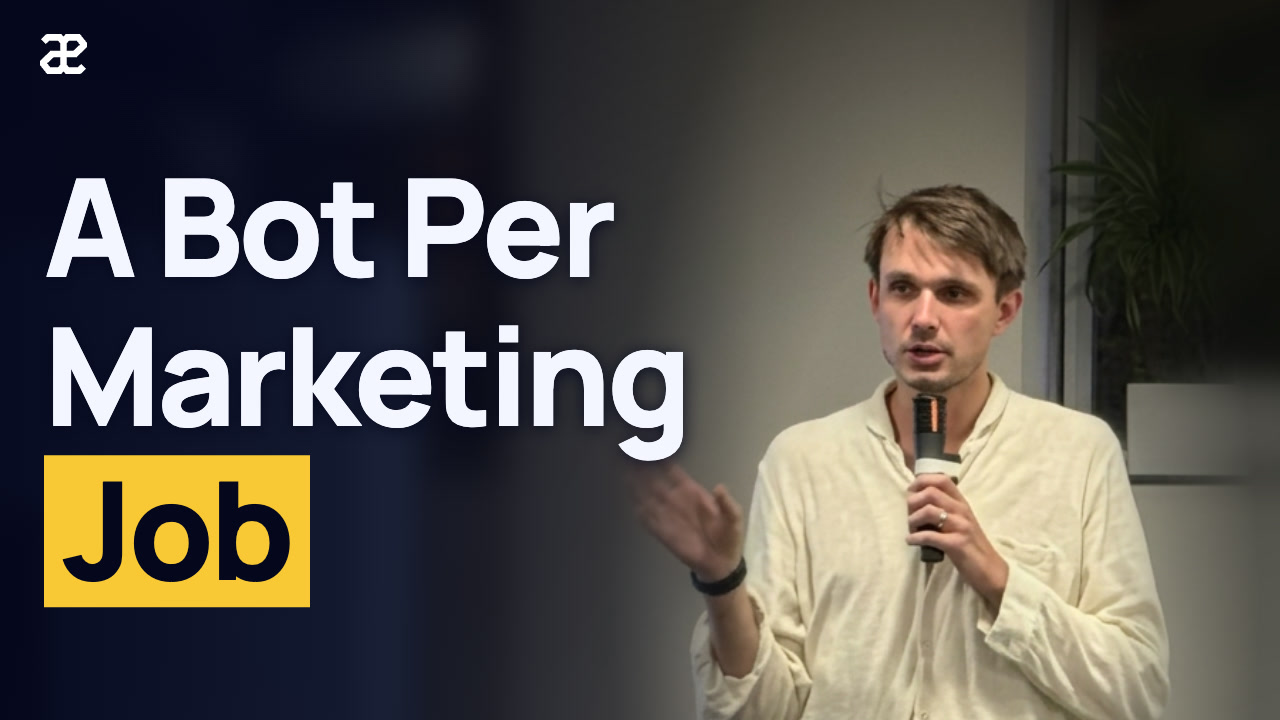
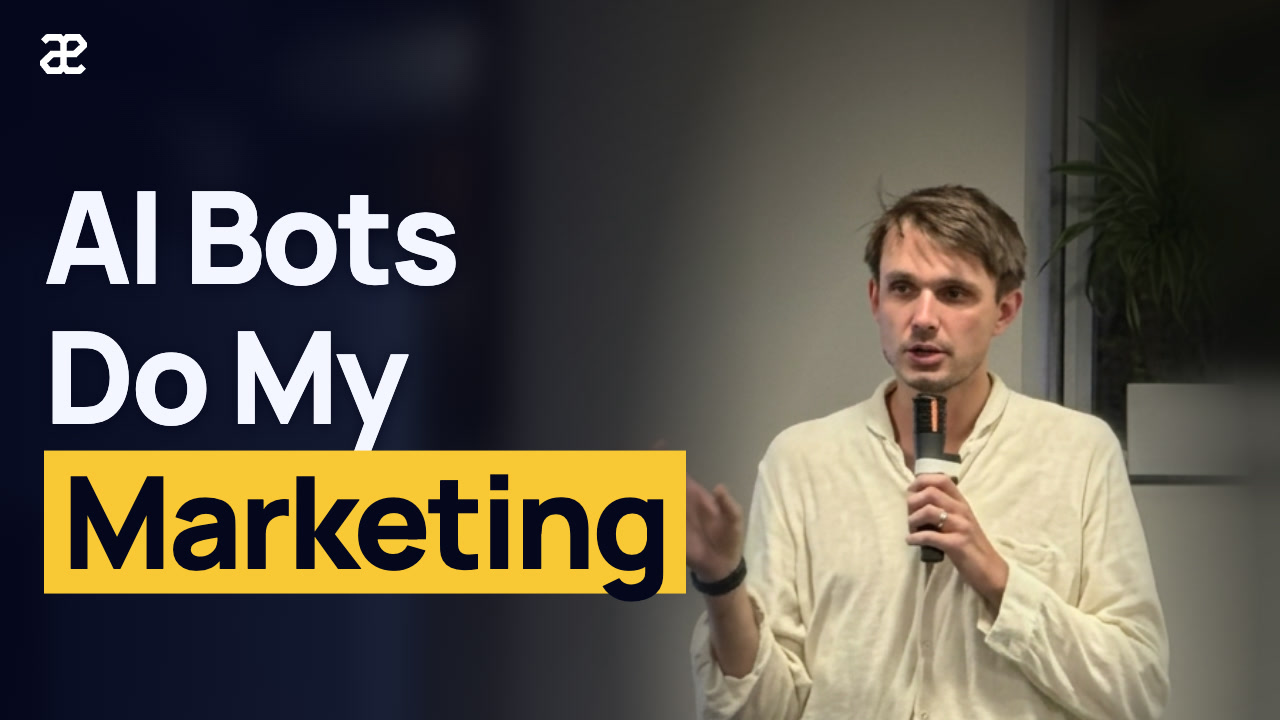
Hooks: balanced line breaks, the highlight on the phrase that carries the point
thumbnail.py takes a *phrase* or a *line to highlight and warns about a stray
short line. The three skills check line breaks and the highlighted words.

Changed region(s): [[0.0312, 0.4278, 0.5625, 0.8556], [0.0312, 0.2444, 0.5, 0.3972]]

diff --git a/scripts/thumbnail.html b/scripts/thumbnail.html
@@ -17,7 +17,8 @@
           font: 800 190px/1.02 Manrope, sans-serif; letter-spacing: -0.03em; white-space: nowrap; }
   .right .hook { left: 44px; align-items: flex-start; }
   .left .hook { right: 44px; align-items: flex-end; }
-  .hook .hl { background: var(--yellow); color: var(--navy); padding: 0.03em 0.14em 0.07em; }
+  .hook .hl { background: var(--yellow); color: var(--navy); padding: 0.03em 0.14em 0.07em; text-shadow: none; }
+  .hook span.hl { display: inline-block; margin: 0 0.06em; }
   .hook .pl { text-shadow: 0 2px 18px rgba(5, 7, 30, 0.9); }
 </style></head>
 <body><div id="stage"><canvas id="c" width="1280" height="720"></canvas><div id="ui"></div></div>
@@ -95,11 +96,14 @@ const load = (src) => new Promise((ok, no) => {
   const img = await load(CFG.photo), sharp = CFG.sharp ? await load(CFG.sharp.src) : null;
   const r = render(img, sharp), stage = document.getElementById('stage');
   stage.classList.add(r.side);
-  // The yellow block goes on the line that carries the claim: the one marked
-  // with a leading *, else the last.
-  const marked = CFG.hook.findIndex((l) => l.startsWith('*'));
-  const hl = marked < 0 ? CFG.hook.length - 1 : marked;
-  const lines = CFG.hook.map((l, i) => `<span class="${i === hl ? 'hl' : 'pl'}">${esc(l.replace(/^\*/, ''))}</span>`);
+  // The yellow block marks the words that carry the point: a *phrase* inside
+  // a line, a whole line that starts with *, or else the last line.
+  const any = CFG.hook.some((l) => l.includes('*'));
+  const lines = CFG.hook.map((l, i) => {
+    if (/\*.+\*/.test(l)) return `<div class="pl">${esc(l).replace(/\*(.+?)\*/g, '<span class="hl">$1</span>')}</div>`;
+    const whole = any ? l.startsWith('*') : i === CFG.hook.length - 1;
+    return `<div class="${whole ? 'hl' : 'pl'}">${esc(l.replace(/^\*/, ''))}</div>`;
+  });
   document.getElementById('ui').innerHTML =
     `<img class="sig" src="${CFG.mark}"><div class="hook">${lines.join('')}</div>`;
   await document.fonts.ready;

diff --git a/scripts/thumbnail.py b/scripts/thumbnail.py
@@ -15,8 +15,9 @@ in the talk's talk.json, so a thumbnail can be rendered again:
             height, chin to top of hair. Look at the photo to find them.
     hook    one to three short lines, "|" between them, five words at most:
             what the talk is about, readable with no title beside it. Short
-            lines are set larger. The last line gets the yellow block; start
-            another with * to give it that instead.
+            lines are set larger. The yellow block goes on the last line,
+            or on what you mark: a line starting with *, or a *phrase* in one.
+            Break lines at phrase boundaries and keep them of similar length.
 
 --enhance sends a crop of the speaker (never the name or the talk) to an image
 model and uses the result for the speaker only. The model invents detail:
@@ -158,6 +159,10 @@ def record(talk: pathlib.Path, args: argparse.Namespace, shots: pathlib.Path) ->
         if len(" ".join(lines).replace("*", "").split()) > 5:
             die(f"--hook {args.hook!r} is over five words: it will not read at feed size")
         t["hook"] = lines
+        widths = [len(l.replace("*", "")) for l in lines]
+        if min(widths) * 2.5 < max(widths):
+            print(f"  warning: {min(lines, key=len)!r} is a stray short line beside a long one; "
+                  "rebalance the breaks", file=sys.stderr)
     if args.photo or args.face or args.no_enhance:
         t.pop("enhanced", None)  # it was made from the old photo or face
     if args.enhance:

diff --git a/.claude/skills/youtube-title/SKILL.md b/.claude/skills/youtube-title/SKILL.md
@@ -82,8 +82,15 @@ often with the title cut off or not read at all.
   title. Use the noun.
 - **A number only with its unit and only if it is the talk's central
   result.** "81% Written by Agents", not "212 Times".
-- **Five words or fewer, on one to three lines.** Short lines are set larger:
-  aim for ten characters a line.
+- **Five words or fewer, on one to three lines.** Four is better. Short lines
+  are set larger: aim for ten characters a line.
+- **Line breaks.** Each line is a phrase, and the lines are of similar
+  length. One short word alone on a line beside a long line ("Run", "My") is
+  a fault, and so is a break inside a phrase ("My Phone / Calls"). Two
+  balanced lines beat three ragged ones.
+- **The highlight.** The yellow block sits on the words that carry the point,
+  as a whole phrase: "Phone Calls", "Lose Crypto", "Marketing". It never
+  sits on a connective or half a phrase ("Focus, Not", "Per", "Calls").
 - **Works with the title, without copying it.** It may share the topic word.
   It must not be the title again, and the two together should say more than
   either alone.

diff --git a/.claude/skills/title-critic/SKILL.md b/.claude/skills/title-critic/SKILL.md
@@ -65,7 +65,10 @@ Score each 1 to 5 with one sentence of evidence.
 5. **Pair.** Read title and hook together. They should make one story and say
    more together than either alone. Sharing the topic word is fine; the hook
    being the title again is not, and neither are two unrelated statements.
-6. **Form.** The hook is five words or fewer on one to three lines. The title before the name is 55 characters or fewer and the
+6. **Form.** The hook is five words or fewer on one to three lines; each
+   line is a phrase and the lines are of similar length, with no single short
+   word stranded on its own line; the highlighted words are the ones that
+   carry the point, as a whole phrase. The title before the name is 55 characters or fewer and the
    whole is 100 or fewer; the first 40 characters carry the topic and the
    pull; Title Case; no ALL CAPS, emoji, `<`, `>` or trailing full stop;
    unlike the event's other titles.

diff --git a/.claude/skills/thumbnail-critic/SKILL.md b/.claude/skills/thumbnail-critic/SKILL.md
@@ -137,6 +137,13 @@ Judge it as a designer would, independent of the hook.
 - Nothing important in the bottom-right corner (roughly the last 22% of
   width and 16% of height), where the duration badge sits.
 - Text clear of the face and the subject's hands.
+- **Line breaks.** Read the hook's shape on the thumbnail. Each line is a phrase, and the lines are of similar
+  length. One short word alone on a line beside a long line ("Run", "My") is
+  a fault, and so is a break inside a phrase ("My Phone / Calls"). Two
+  balanced lines beat three ragged ones.
+- **The highlight.** Read only the yellow words: do they name the point? The yellow block sits on the words that carry the point,
+  as a whole phrase: "Phone Calls", "Lose Crypto", "Marketing". It never
+  sits on a connective or half a phrase ("Focus, Not", "Per", "Calls").
 
 ### 6. Photo: is the image itself good enough?
 
